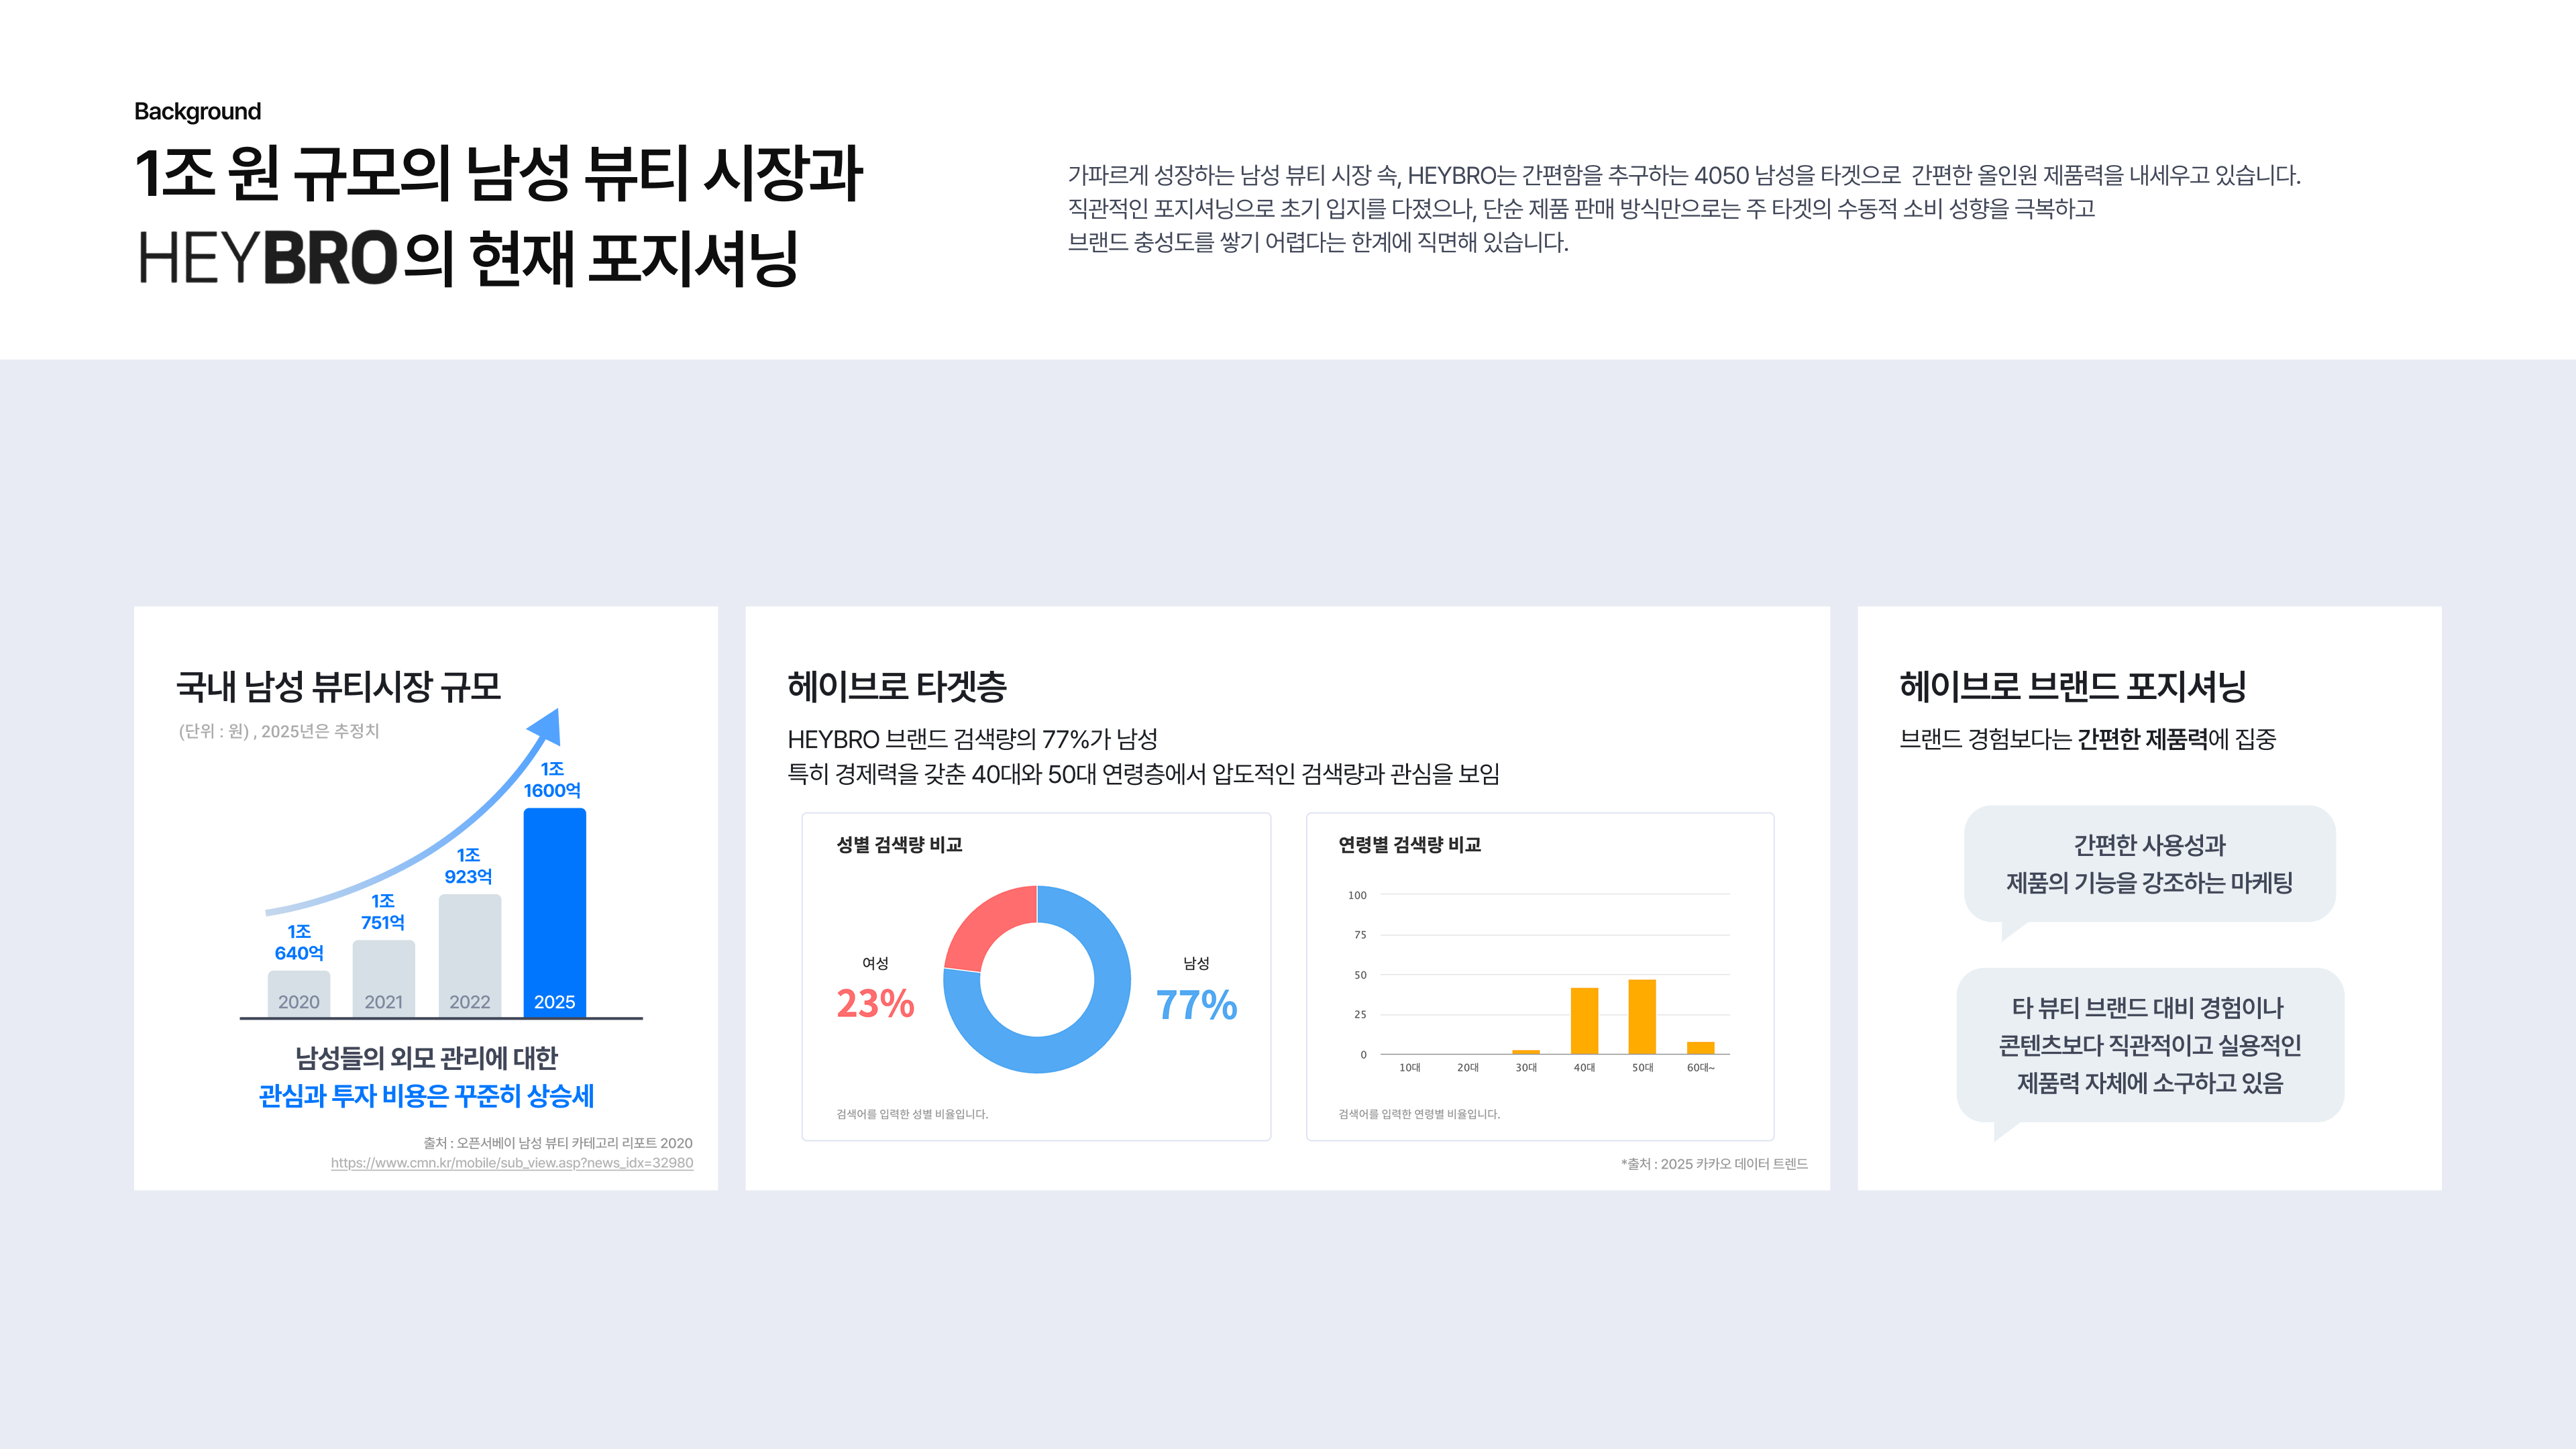
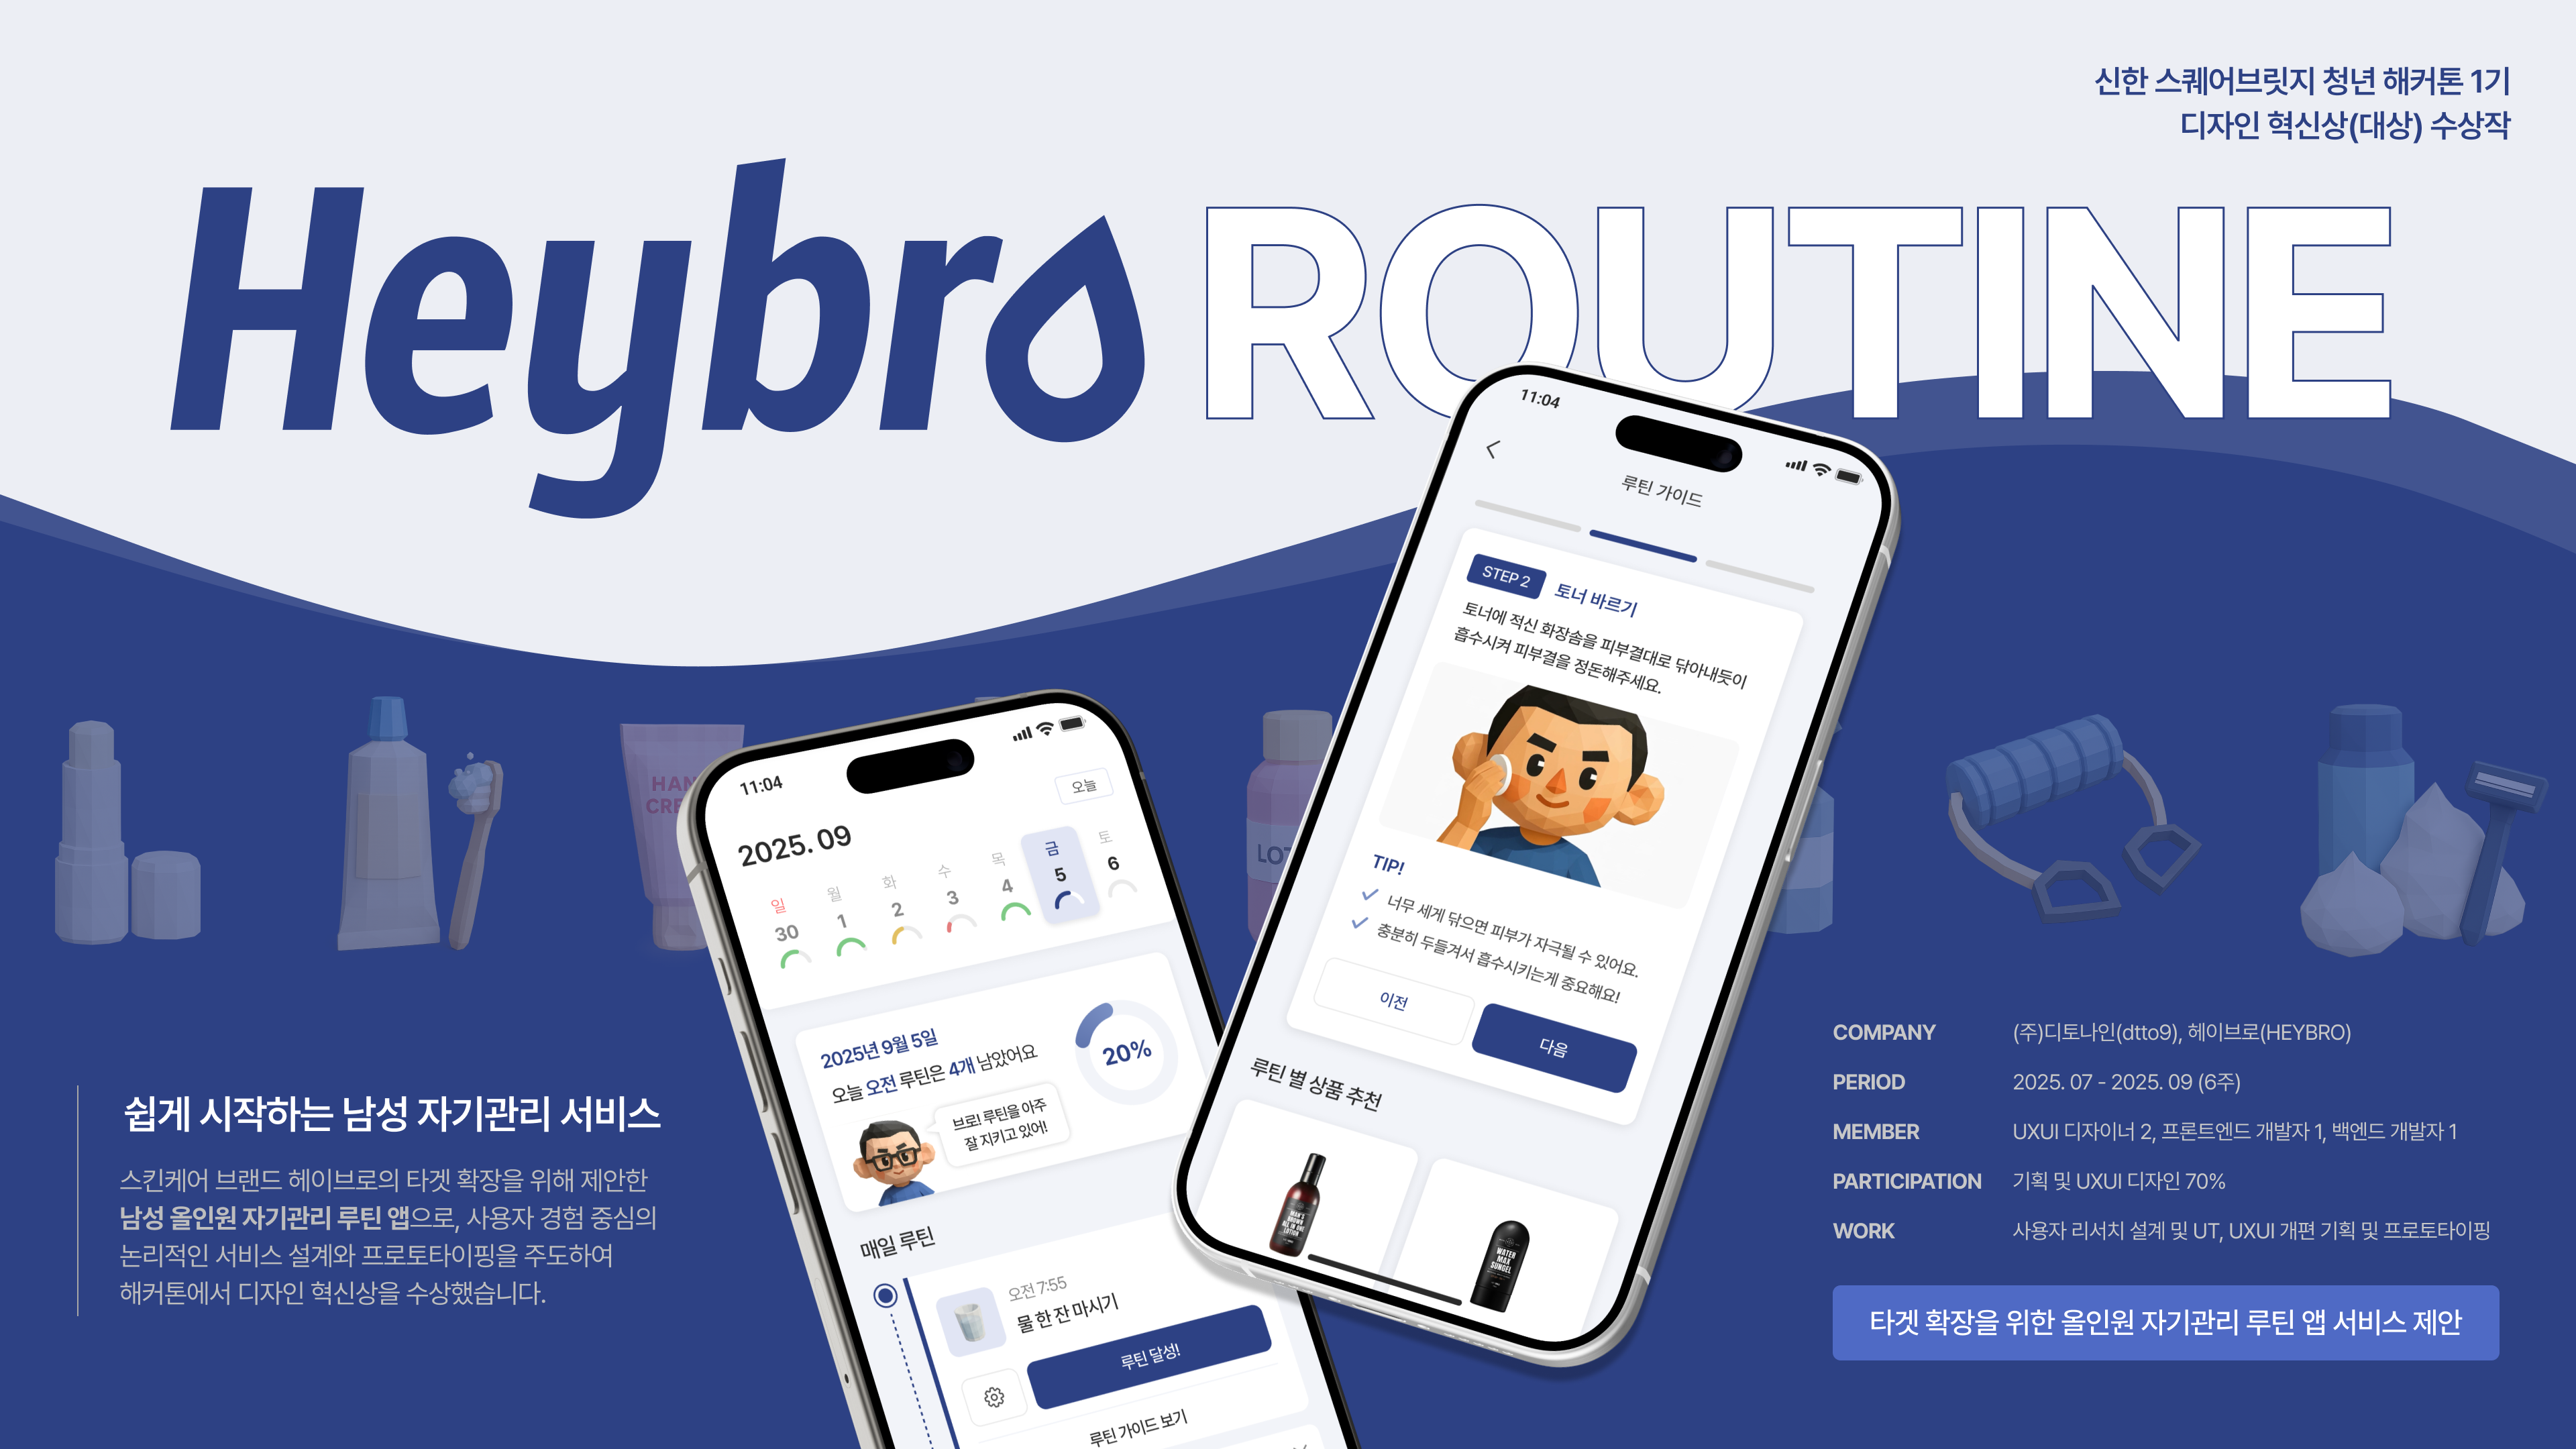
Update Heybro thumbnail and cover image, increase section header font size

diff --git a/src/components/About.tsx b/src/components/About.tsx
@@ -80,7 +80,7 @@ export default function About() {
 
         {/* 왼쪽: 학력 → 자격증 */}
         <div>
-          <p style={{ fontFamily: 'var(--font-mono)', fontSize: 18, fontWeight: 700, letterSpacing: '0.1em', textTransform: 'uppercase', color: 'var(--accent)', marginBottom: 28 }}>학력</p>
+          <p style={{ fontFamily: 'var(--font-mono)', fontSize: 20, fontWeight: 700, letterSpacing: '0.1em', textTransform: 'uppercase', color: 'var(--accent)', marginBottom: 28 }}>학력</p>
           {EDUCATION.map((e, i) => (
             <div key={i} style={{ paddingLeft: 16, borderLeft: '2px solid var(--accent)', marginBottom: 28 }}>
               <p style={{ fontFamily: 'var(--font-mono)', fontSize: 13, color: 'var(--text-muted)', marginBottom: 8, letterSpacing: '0.04em' }}>{e.period}</p>
@@ -99,7 +99,7 @@ export default function About() {
             </div>
           ))}
 
-          <p style={{ fontFamily: 'var(--font-mono)', fontSize: 18, fontWeight: 700, letterSpacing: '0.1em', textTransform: 'uppercase', color: 'var(--accent)', margin: '40px 0 28px' }}>자격증</p>
+          <p style={{ fontFamily: 'var(--font-mono)', fontSize: 20, fontWeight: 700, letterSpacing: '0.1em', textTransform: 'uppercase', color: 'var(--accent)', margin: '40px 0 28px' }}>자격증</p>
           {CERTIFICATIONS.map((c, i) => (
             <div key={i} style={{ paddingLeft: 16, borderLeft: '2px solid var(--accent)', marginBottom: 22 }}>
               <p style={{ fontFamily: 'var(--font-mono)', fontSize: 13, color: 'var(--text-muted)', marginBottom: 6 }}>{c.date}</p>
@@ -111,7 +111,7 @@ export default function About() {
 
         {/* 오른쪽: 대외활동 → 수상경력 */}
         <div>
-          <p style={{ fontFamily: 'var(--font-mono)', fontSize: 18, fontWeight: 700, letterSpacing: '0.1em', textTransform: 'uppercase', color: 'var(--accent)', marginBottom: 28 }}>대외활동</p>
+          <p style={{ fontFamily: 'var(--font-mono)', fontSize: 20, fontWeight: 700, letterSpacing: '0.1em', textTransform: 'uppercase', color: 'var(--accent)', marginBottom: 28 }}>대외활동</p>
           {ACTIVITIES.map((a, i) => (
             <div key={i} style={{ paddingLeft: 16, borderLeft: '2px solid var(--accent)', marginBottom: 22 }}>
               <p style={{ fontFamily: 'var(--font-mono)', fontSize: 13, color: 'var(--text-muted)', marginBottom: 6 }}>{a.period}</p>
@@ -121,7 +121,7 @@ export default function About() {
             </div>
           ))}
 
-          <p style={{ fontFamily: 'var(--font-mono)', fontSize: 18, fontWeight: 700, letterSpacing: '0.1em', textTransform: 'uppercase', color: 'var(--accent)', margin: '40px 0 28px' }}>수상경력</p>
+          <p style={{ fontFamily: 'var(--font-mono)', fontSize: 20, fontWeight: 700, letterSpacing: '0.1em', textTransform: 'uppercase', color: 'var(--accent)', margin: '40px 0 28px' }}>수상경력</p>
           {AWARDS.map((a, i) => (
             <div key={i} style={{ paddingLeft: 16, borderLeft: '2px solid var(--accent)', marginBottom: 22 }}>
               <p style={{ fontFamily: 'var(--font-mono)', fontSize: 13, color: 'var(--text-muted)', marginBottom: 8 }}>{a.date}</p>